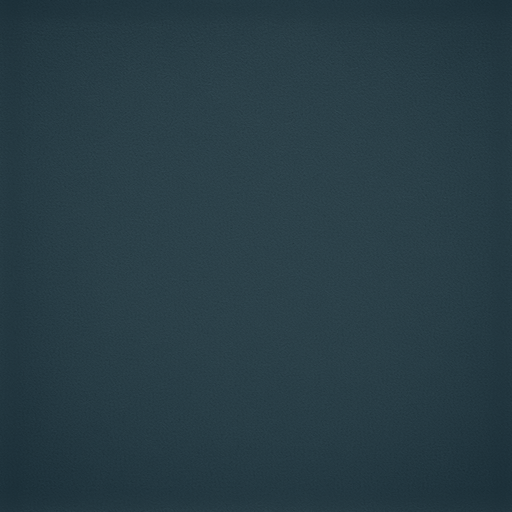
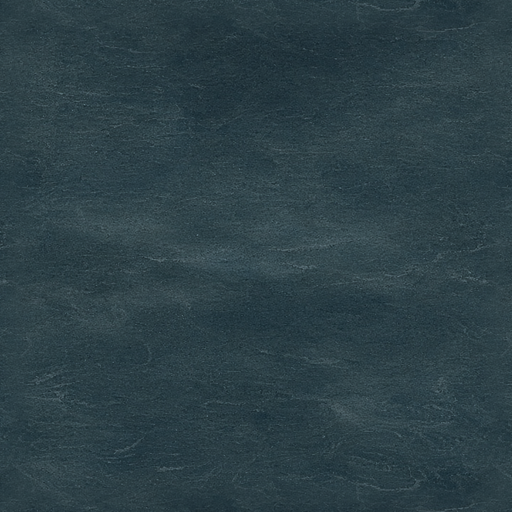
V2.81.51-three-polish.13: James texture lock + pinch
Bake James hi-res macros as live Three materials: scanned cardboard
parchment, printed slate-teal ocean, molded plastic unit atlases.
Washes stay color-locked without a second grain overlay. Mid remains
one plastic+N; near ≤3–4 +K. iPhone two-finger pinch required.
Preview ?three=1 only; SCHEMA 11.

diff --git a/src/map/threeMapPalette.js b/src/map/threeMapPalette.js
@@ -88,8 +88,8 @@ export const FACTION_WASH = {
 
 export const OCEAN_DEEP = 0x3d5a66;
 export const OCEAN_SHELF = 0x4f6e78;
-export const PAPER_UV = 48;
-export const OCEAN_UV = 56;
+export const PAPER_UV = 32;
+export const OCEAN_UV = 40;
 // Overlay + multiply punch — 8–14% is invisible at 390. Glance must read scanned board.
 export const GRAIN_STRENGTH = 0.86;
 
@@ -298,8 +298,10 @@ export async function loadBoardTextures() {
   landSheets.clear();
   washMaps.clear();
   names.forEach((k, i) => {
+    // Washes already are the James macro parchment, color-locked. Do not
+    // overlay a second grain pass — that flattened the blotches at 390.
     washMaps.set(k, washes[i]
-      ? imageToTex(washes[i], REGION_WASH[k] || PALETTE.landBase, parchment)
+      ? imageToTex(washes[i], REGION_WASH[k] || PALETTE.landBase)
       : null);
   });
   return { paperTex, oceanMap };

diff --git a/src/version.js b/src/version.js
@@ -3,7 +3,7 @@
 // multiplayer core (syncManager) can both import it without coupling UI code
 // into the sync path. Bump GAME_VERSION for every deployed change.
 
-export const GAME_VERSION = 'V2.81.51-three-polish.12';
+export const GAME_VERSION = 'V2.81.51-three-polish.13';
 
 // Schema version of the serialized game state (mirrors gameState.toJSON().version).
 // Bump only when the persisted state shape changes; a mismatch here is a harder

diff --git a/tools/bake-james-texture-lock.py b/tools/bake-james-texture-lock.py
@@ -1,0 +1,194 @@
+#!/usr/bin/env python3
+"""Bake James texture-lock refs into Three preview materials.
+
+SoT:
+  briefs/2026-09-17-three-art-gap/refs/board-parchment-macro-tile.png
+  briefs/2026-09-17-three-art-gap/refs/board-ocean-print-macro-tile.png
+  briefs/2026-09-17-three-art-gap/refs/units-molded-plastic-atlas-hi.png
+"""
+from __future__ import annotations
+
+from pathlib import Path
+import numpy as np
+from PIL import Image, ImageFilter, ImageOps, ImageEnhance
+
+ROOT = Path(__file__).resolve().parents[1]
+REFS = ROOT / 'briefs/2026-09-17-three-art-gap/refs'
+BOARD = ROOT / 'assets/three/board'
+UNITS = ROOT / 'assets/three/units'
+CELL = 512
+
+WASH_HEX = {
+    'europe': (0x8C, 0x9A, 0x52),
+    'ussr': (0xC4, 0xA0, 0x6A),
+    'africa': (0xD6, 0xB8, 0x5C),
+    'middle-east': (0xD4, 0xBC, 0x68),
+    'asia': (0x8E, 0xAE, 0x6A),
+    'north-america': (0x86, 0xA8, 0x5E),
+    'south-america': (0x6F, 0x98, 0x48),
+    'oceania': (0xA3, 0xB0, 0x6A),
+}
+
+OCEAN_DEEP = (0x3D, 0x5A, 0x66)
+OCEAN_SHELF = (0x4F, 0x6E, 0x78)
+
+HI_CELLS = {
+    'infantry': (0, 0),
+    'armour': (1, 0),
+    'fighter': (3, 0),  # top-right tank is green; fighter is bottom-left
+    'bomber': (1, 1),
+    'battleship': (2, 1),
+    'submarine': (3, 1),
+}
+
+
+def square_tile(path: Path, size=512) -> Image.Image:
+    im = Image.open(path).convert('RGB')
+    w, h = im.size
+    side = min(w, h)
+    x = (w - side) // 2
+    y = (h - side) // 2
+    return im.crop((x, y, x + side, y + side)).resize((size, size), Image.Resampling.LANCZOS)
+
+
+def make_tileable(im: Image.Image, blend=40) -> Image.Image:
+    arr = np.array(im, dtype=np.float32)
+    h, w = arr.shape[:2]
+    out = arr.copy()
+    for i in range(blend):
+        t = (i + 1) / (blend + 1)
+        out[i] = out[i] * t + out[h - blend + i] * (1 - t)
+        out[h - blend + i] = out[i]
+        out[:, i] = out[:, i] * t + out[:, w - blend + i] * (1 - t)
+        out[:, w - blend + i] = out[:, i]
+    return Image.fromarray(np.clip(out, 0, 255).astype(np.uint8), 'RGB')
+
+
+def contrast_punch(im: Image.Image, amount=1.55) -> Image.Image:
+    return ImageEnhance.Contrast(im).enhance(amount)
+
+
+def colorize_keep_grain(im: Image.Image, rgb, strength=0.78) -> Image.Image:
+    arr = np.array(im, dtype=np.float32)
+    lum = (0.30 * arr[:, :, 0] + 0.59 * arr[:, :, 1] + 0.11 * arr[:, :, 2]) / 255.0
+    lum = np.clip((lum - 0.12) / 0.70, 0.22, 1.20)
+    tint = np.array(rgb, dtype=np.float32) * lum[..., None]
+    out = arr * (1 - strength) + tint * strength
+    return Image.fromarray(np.clip(out, 0, 255).astype(np.uint8), 'RGB')
+
+
+def bake_board():
+    BOARD.mkdir(parents=True, exist_ok=True)
+    parchment = contrast_punch(square_tile(REFS / 'board-parchment-macro-tile.png'), 1.65)
+    parchment = make_tileable(parchment, 36)
+    parchment.save(BOARD / 'board-parchment-tile.png', 'PNG', optimize=True)
+    print('wrote', BOARD / 'board-parchment-tile.png')
+
+    ocean = square_tile(REFS / 'board-ocean-print-macro-tile.png')
+    ocean = contrast_punch(ocean, 1.28)
+    # Lock hue to printed slate-teal without killing the scan tooth.
+    ocean = colorize_keep_grain(ocean, OCEAN_DEEP, 0.42)
+    ocean = colorize_keep_grain(ocean, OCEAN_SHELF, 0.22)
+    ocean = make_tileable(ocean, 32)
+    ocean.save(BOARD / 'board-ocean-tile.png', 'PNG', optimize=True)
+    print('wrote', BOARD / 'board-ocean-tile.png')
+
+    for slug, rgb in WASH_HEX.items():
+        wash = colorize_keep_grain(parchment, rgb, 0.82)
+        wash = Image.blend(wash, parchment, 0.18)
+        wash = contrast_punch(wash, 1.22)
+        wash.save(BOARD / f'wash-{slug}.png', 'PNG', optimize=True)
+        print('wrote', BOARD / f'wash-{slug}.png')
+
+
+def slice_hi_atlas():
+    im = Image.open(REFS / 'units-molded-plastic-atlas-hi.png').convert('RGB')
+    w, h = im.size
+    cw, ch = w // 4, h // 2
+    cells = {}
+    # 4×2 product sheet: INF / TNK / INF-green / TNK-green
+    #                    FTR / BMB / BB / SUB
+    mapping = {
+        'infantry': (0, 0),
+        'armour': (1, 0),
+        'fighter': (0, 1),
+        'bomber': (1, 1),
+        'battleship': (2, 1),
+        'submarine': (3, 1),
+    }
+    for name, (col, row) in mapping.items():
+        cells[name] = im.crop((col * cw, row * ch, (col + 1) * cw, (row + 1) * ch))
+    return cells
+
+
+def rembg_cut(im: Image.Image) -> Image.Image:
+    from rembg import remove
+    cut = remove(im.convert('RGB')).convert('RGBA')
+    arr = np.array(cut)
+    ys, xs = np.where(arr[:, :, 3] > 24)
+    if len(xs) < 80:
+        return Image.new('RGBA', (CELL, CELL), (0, 0, 0, 0))
+    pad = 18
+    x0, x1 = max(0, xs.min() - pad), min(arr.shape[1], xs.max() + pad)
+    y0, y1 = max(0, ys.min() - pad), min(arr.shape[0], ys.max() + pad)
+    crop = Image.fromarray(arr[y0:y1, x0:x1], 'RGBA')
+    alpha = crop.split()[3]
+    outline = alpha.filter(ImageFilter.MaxFilter(9)).filter(ImageFilter.GaussianBlur(0.5))
+    canvas = Image.new('RGBA', (CELL, CELL), (0, 0, 0, 0))
+    ink = Image.new('RGBA', (CELL, CELL), (26, 22, 16, 0))
+    fitted = ImageOps.contain(crop, (CELL - 28, CELL - 28))
+    out_a = ImageOps.contain(outline, (CELL - 16, CELL - 16))
+    ink_a = Image.new('L', (CELL, CELL), 0)
+    ink_a.paste(out_a, ((CELL - out_a.width) // 2, (CELL - out_a.height) // 2 + 4))
+    ink.putalpha(ink_a)
+    canvas.paste(ink, (0, 0), ink)
+    ox = (CELL - fitted.width) // 2
+    oy = (CELL - fitted.height) // 2
+    canvas.paste(fitted, (ox, oy + 2), fitted)
+    return canvas
+
+
+def take_existing(atlas_path: Path, cols, rows, col, row) -> Image.Image:
+    im = Image.open(atlas_path).convert('RGBA')
+    cw, ch = im.width // cols, im.height // rows
+    cell = im.crop((col * cw, row * ch, (col + 1) * cw, (row + 1) * ch))
+    return cell.resize((CELL, CELL), Image.Resampling.LANCZOS)
+
+
+def bake_units():
+    UNITS.mkdir(parents=True, exist_ok=True)
+    hi = slice_hi_atlas()
+    land_old = UNITS / 'units-land-plastic.png'
+    naval_old = UNITS / 'units-naval-plastic.png'
+    pieces = {}
+    for name, crop in hi.items():
+        print('cut', name)
+        pieces[name] = rembg_cut(crop)
+    # Keep prior molded cuts for types the hi sheet does not include.
+    if land_old.exists():
+        pieces.setdefault('artillery', take_existing(land_old, 4, 2, 2, 0))
+        pieces.setdefault('aaGun', take_existing(land_old, 4, 2, 1, 1))
+        pieces.setdefault('factory', take_existing(land_old, 4, 2, 2, 1))
+    if naval_old.exists():
+        pieces.setdefault('carrier', take_existing(naval_old, 2, 2, 1, 0))
+        pieces.setdefault('transport', take_existing(naval_old, 2, 2, 1, 1))
+
+    land = Image.new('RGBA', (4 * CELL, 2 * CELL), (0, 0, 0, 0))
+    order = ['infantry', 'armour', 'artillery', 'fighter', 'bomber', 'aaGun', 'factory']
+    for i, name in enumerate(order):
+        piece = pieces.get(name) or Image.new('RGBA', (CELL, CELL), (0, 0, 0, 0))
+        land.paste(piece, ((i % 4) * CELL, (i // 4) * CELL), piece)
+    land.save(UNITS / 'units-land-plastic.png', 'PNG')
+    print('wrote', UNITS / 'units-land-plastic.png')
+
+    naval = Image.new('RGBA', (2 * CELL, 2 * CELL), (0, 0, 0, 0))
+    for i, name in enumerate(['battleship', 'carrier', 'submarine', 'transport']):
+        piece = pieces.get(name) or Image.new('RGBA', (CELL, CELL), (0, 0, 0, 0))
+        naval.paste(piece, ((i % 2) * CELL, (i // 2) * CELL), piece)
+    naval.save(UNITS / 'units-naval-plastic.png', 'PNG')
+    print('wrote', UNITS / 'units-naval-plastic.png')
+
+
+if __name__ == '__main__':
+    bake_board()
+    bake_units()

diff --git a/BUGS.md b/BUGS.md
@@ -2,6 +2,19 @@
 
 ---
 
+## 9.18.26 — V2.81.51-three-polish.13 (preview only, SCHEMA 11)
+
+James texture lock (JAMES-HECORRECT-TEXTURE.md). Preview `?three=1` only. Do not merge.
+
+1. **Land** — bake `refs/board-parchment-macro-tile.png` as scanned cardboard punch (continent color on top of the blotches).
+2. **Ocean** — bake `refs/board-ocean-print-macro-tile.png` as printed muted blue-grey / slate-teal. Not charcoal.
+3. **Units** — bake `refs/units-molded-plastic-atlas-hi.png` into plastic atlases. Kill Lucide/vector + number discs.
+4. **iPhone pinch** — two-finger pinch + pan required. Mid = one plastic+N; near ≤3–4 + `+K`.
+
+Open: Vercel preview + `?three=1`. SCHEMA 11. GAME_VERSION V2.81.51-three-polish.13.
+
+---
+
 ## 9.18.26 — V2.81.51-three-polish.12 (preview only, SCHEMA 11)
 
 James HARD he-correct on polish.11 (~25%): vector/GIS board, simple icons, no image-gen texture, iPhone pinch dead. Preview `?three=1` only. Do not merge over live Canvas. Tesla off.

diff --git a/briefs/2026-09-17-three-art-gap/JAMES-HECORRECT-TEXTURE.md b/briefs/2026-09-17-three-art-gap/JAMES-HECORRECT-TEXTURE.md
@@ -1,0 +1,18 @@
+# James he-correct · texture + pinch (17 Sep ~5:37pm PT)
+Preview polish.11: **~25% love** (James). Not 50.
+
+## Quote
+"No texture, icons still too simple. Need much more detailed prompts with more texture throughout — this is way too simple and devoid of image generation, looks like vector graphics."
+Also: should there be pinch to zoom? → **YES required**.
+
+## Lock
+1. Image-gen first — bake photoreal board/ocean/unit atlases into Three. Kill code-drawn flat fills / Lucide / vector stamps.
+2. Units = detailed molded plastic from atlas (thick outline, contact shadow, faction plastic).
+3. Pinch-to-zoom (two-finger) + pan on iPhone; +/- / Fit secondary.
+4. Mid pip+N; near ≤3–4 typed + +K.
+5. Fail if App Store glance still reads SVG/GIS.
+
+## Assets on disk
+- refs/board-parchment-macro-tile.png
+- refs/board-ocean-print-macro-tile.png
+- refs/units-molded-plastic-atlas-hi.png

diff --git a/assets/three/units/README.md b/assets/three/units/README.md
@@ -9,5 +9,5 @@ Kill cream discs / Lucide stamps / number-coins.
 | `units-land-plastic.png` | 4×2 | INF, TNK, ART, FTR / BMB, AA, FAC |
 | `units-naval-plastic.png` | 2×2 | BB, CV / SS, TR |
 
-Regenerate: `python3 tools/bake-three-gen-art.py` (needs gen sources).
-Ref: `briefs/2026-09-17-three-art-gap/refs/aa-plastic-units.png`.
+Regenerate: `python3 tools/bake-james-texture-lock.py`
+SoT: `briefs/2026-09-17-three-art-gap/refs/units-molded-plastic-atlas-hi.png`.
